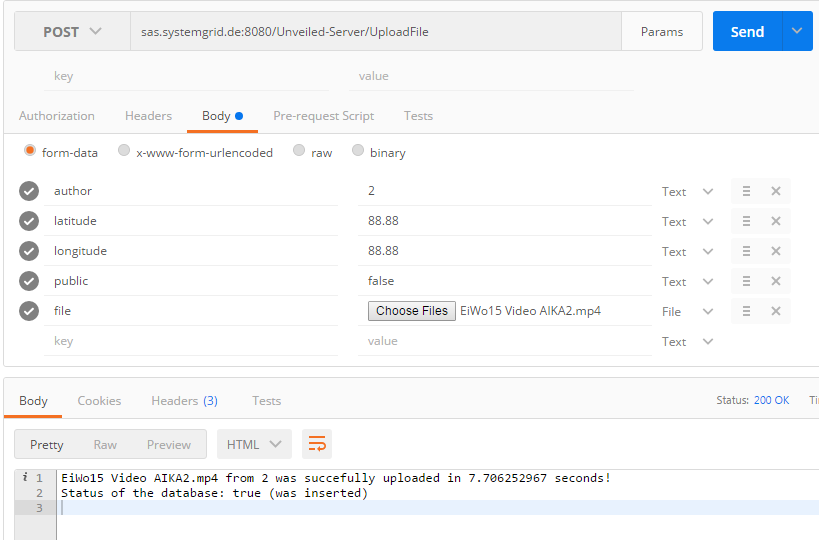
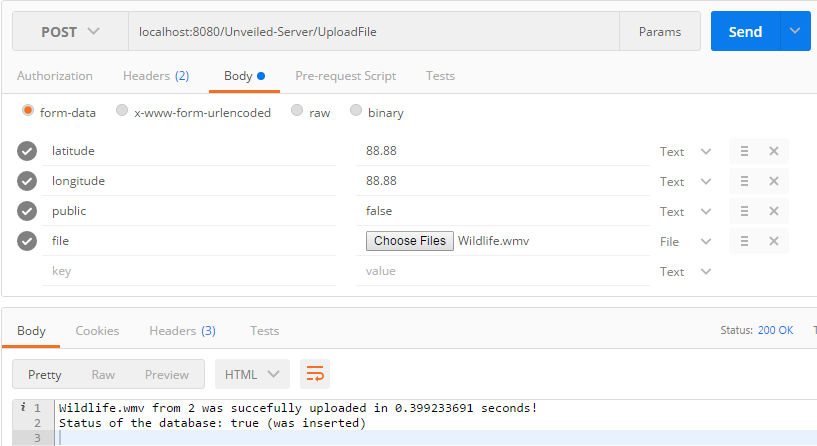
configured build and tool chain ...also autodeployment to productive server

diff --git a/src/main/java/sas/systems/unveiled/server/fileIO/FileUploadServlet.java b/src/main/java/sas/systems/unveiled/server/fileIO/FileUploadServlet.java
@@ -83,15 +83,15 @@ public class FileUploadServlet extends HttpServlet {
 		}
 		// read parameters:
 		String filePartName = "undefined.unv";
-		int author = -1;
+		int user = -1;
 		double lat = .0;
 		double lng = .0;
 		boolean isPublic = false;
 		if(getFileName(filePart) != null)
 			filePartName = getFileName(filePart);
-		if(request.getParameter("author") != null) {
+		if(request.getHeader("user") != null) {
 			try {
-				author = Integer.valueOf(request.getParameter("author"));
+				user = Integer.valueOf(request.getHeader("user"));
 			} catch(NumberFormatException e) {};
 		}
 		if(request.getParameter("latitude") != null) {
@@ -111,7 +111,7 @@ public class FileUploadServlet extends HttpServlet {
 		final String filename = filePartName.substring(0, filePartName.indexOf('.'));
 		final String suffix = filePartName.substring(filePartName.indexOf('.')+1, filePartName.length());
 		final long startTime = System.nanoTime();
-		final String location = this.mediaFolder + String.valueOf(author) + "/";
+		final String location = this.mediaFolder + String.valueOf(user) + "/";
 		final FileWriter writer = new FileWriter(location, filename, suffix);
 		File fileHandle;
 		try {
@@ -124,14 +124,14 @@ public class FileUploadServlet extends HttpServlet {
 		
 		// create database entry
 		final String caption = fileHandle.getName();
-		final String fileUrl = this.urlMediaPathPrefix + String.valueOf(author) + "/" + fileHandle.getName();
+		final String fileUrl = this.urlMediaPathPrefix + String.valueOf(user) + "/" + fileHandle.getName();
 		final String thumbnailUrl = this.urlDefaultThumbnail; // FIXME generate thumbnail
 		final String mediatype = filePart.getContentType();
 		final int length = 0;			// FIXME calculate length [in seconds]
 		final int height = 0;			// FIXME calculate resolution [height]x[width]
 		final int width = 0;
 		final String resolution = height + "x" + width; 
-		FilePOJO fileEntity = new FilePOJO(author, caption, filename, fileUrl, thumbnailUrl, mediatype, 
+		FilePOJO fileEntity = new FilePOJO(user, caption, filename, fileUrl, thumbnailUrl, mediatype, 
 				new Date(), fileHandle.length(), lat, lng, isPublic, false, length, height, width, resolution);
 		final boolean wasInserted = this.database.insertFile(fileEntity);
 		
@@ -142,7 +142,7 @@ public class FileUploadServlet extends HttpServlet {
 		final long endTime = System.nanoTime();
 		final long elapsedTimeNs = endTime - startTime;
 		final double elapsedTimeS = elapsedTimeNs/(1e9);
-		response.getWriter().println(filename + "." + suffix + " from " + author + " was succefully uploaded in " + elapsedTimeS + " seconds!");
+		response.getWriter().println(filename + "." + suffix + " from " + user + " was succefully uploaded in " + elapsedTimeS + " seconds!");
 		response.getWriter().println("Status of the database: " + wasInserted + " (was inserted)");
 	}
 	

diff --git a/README.md b/README.md
@@ -1,12 +1,13 @@
 # Unveiled-Server (Java-Stack)
+[![Build Status](https://travis-ci.org/SAS-Systems/Unveiled-Server.svg?branch=master)](https://travis-ci.org/SAS-Systems/Unveiled-Server)
 
 
 ## API Description
 The following URLs can be used to interact with the Java-Stack of the Unveiled-Server:
 
-| URL | Method | Paremeters | Description |
-|-----|--------|------------|-------------|
-|`{unveiled.base}/UploadFile` | POST | author:Int(ID-reference),<br/> latitude:Double,<br/> longitude:Double,<br/> public:Boolean,<br/> file:&lt;BinaryData&gt; | Is used to upload a file to the server. The parameters and the file content must be send via a multipart body (see screenshot below). |
+| URL | Method | Header | Paremeters | Description |
+|-----|--------|--------|------------|-------------|
+|`{unveiled.base}/UploadFile` | POST | user:Int(ID-reference),<br/> token:String | latitude:Double,<br/> longitude:Double,<br/> public:Boolean,<br/> file:&lt;BinaryData&gt; | Is used to upload a file to the server. The parameters and the file content must be send via a multipart body (see screenshot below). |
 ||||
 
 ![Postman screenshot of the UploadFile](https://raw.githubusercontent.com/SAS-Systems/Unveiled-Server/master/UploadFilePostman.png)
